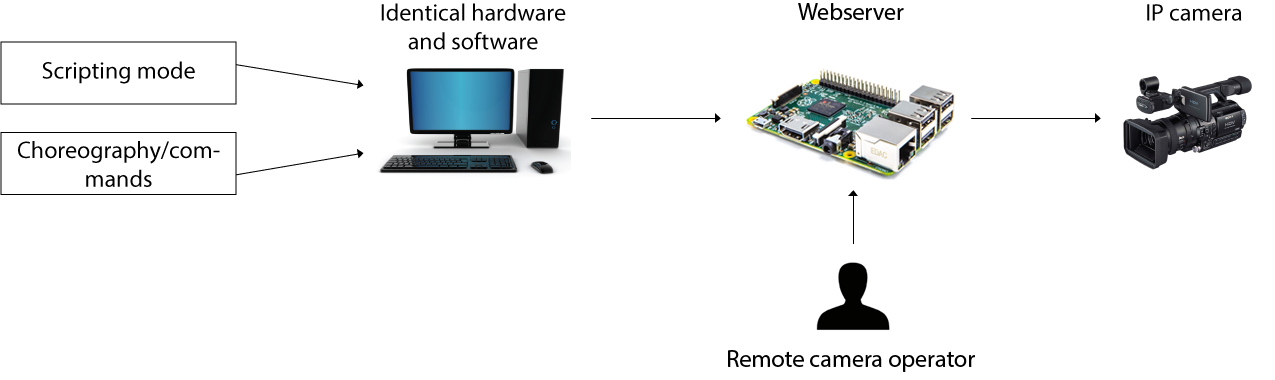
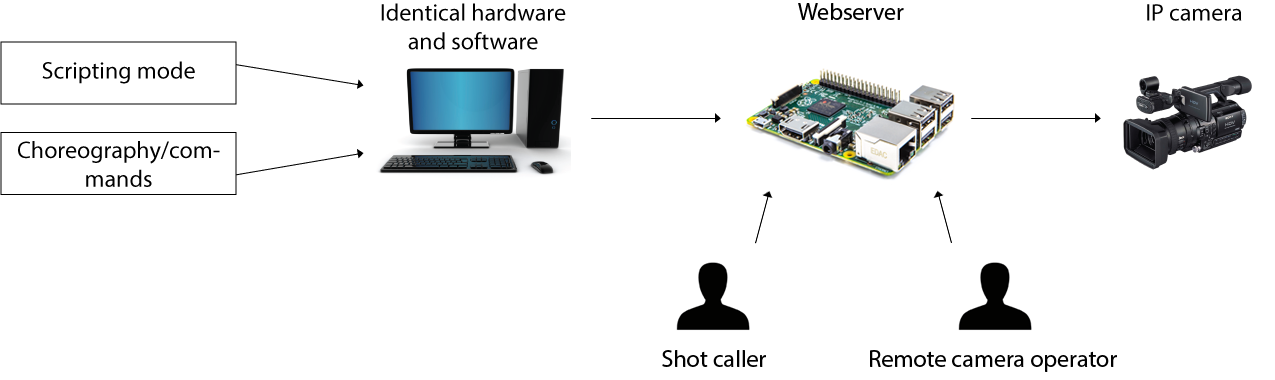
Update Emergent Architecture Document for Sprint 6

diff --git a/documentation/emergent architecture/em_arch.tex b/documentation/emergent architecture/em_arch.tex
@@ -68,7 +68,7 @@ The controllers have been split into two subgroups: those which create the gui, 
 	\caption{Server Architecture}
 	\label{fig:archdecomp}
 \end{figure}
-In addition to the scripting software, a webserver has been created which follows the REST architecture. The server serves a client application to the browser. This client application takes the data provided by RESTful routes and manipulates it in a View-Controller manner.
+In addition to the scripting software, a webserver has been created which follows the REST (Representational State Transfer) architecture. This means that the server works with standard HTTP methods such as GET and POST, and that it doesn't store client session data. The session data is stored in a client's browser and per request, the necessary session data is sent to the server in order to successfully complete the request. As the webserver is RESTful, it also operates using a clear separation of concerns between the server and the client-side application, e.g. that the server is not responsible for managin the client interface or state, and that the client is not responsible for the storage of data on the server. The client application takes the data provided by the RESTful routes and manipulates it in a View-Controller manner.
 
 \subsection{Hardware/Software Mapping}
 % Laptop to IP cameras
@@ -79,7 +79,7 @@ In addition to the scripting software, a webserver has been created which follow
 	\label{fig:mapping}
 \end{figure}
 
-The software for creating the director script will be used by the director. Once he/she is satisfied with the script, it can then be uploaded to a a web server. At this point the remote camera operators can login in to view the script, and then add camera choreography presets. In addition, the remote camera operators will be able to determine which commands will be sent to the IP cameras. When a recording is taking place the webserver will send these recorded commands to the IP cameras. If a camera operator needs to make adjustments to a shot, then the webserver will yield to manual operation.
+The software for creating the director script will be used by the director. Once he/she is satisfied with the script, it can then be uploaded to a a web server. At this point the remote camera operators can login in to view the script, and then add camera choreography presets. In addition, the remote camera operators will be able to determine which commands will be sent to the IP cameras. When a recording is taking place the webserver will send these recorded commands to the IP cameras. If a camera operator needs to make adjustments to a shot, then the webserver will yield to manual operation. The shot caller (responsible for the live timing) can also use the webserver to advance the script during live recordings.
 %The hardware and software will be the same for both the director and the camera operator. The functionality of the software will differ through the use of different modes. There is one mode for the scripting, and one for camera choreography and coordination of the commands which will be sent to the IP cameras. When a recording is taking place the software will send commands from the computer to the proper cameras. The current plan is to use a server (possibly using the command design pattern) to push these commands to the IP cameras, which will allow the remote camera operators to take over whenever they deem it necessary to make changes and/or corrections.
 
 \subsection{Persistent Data Management}
